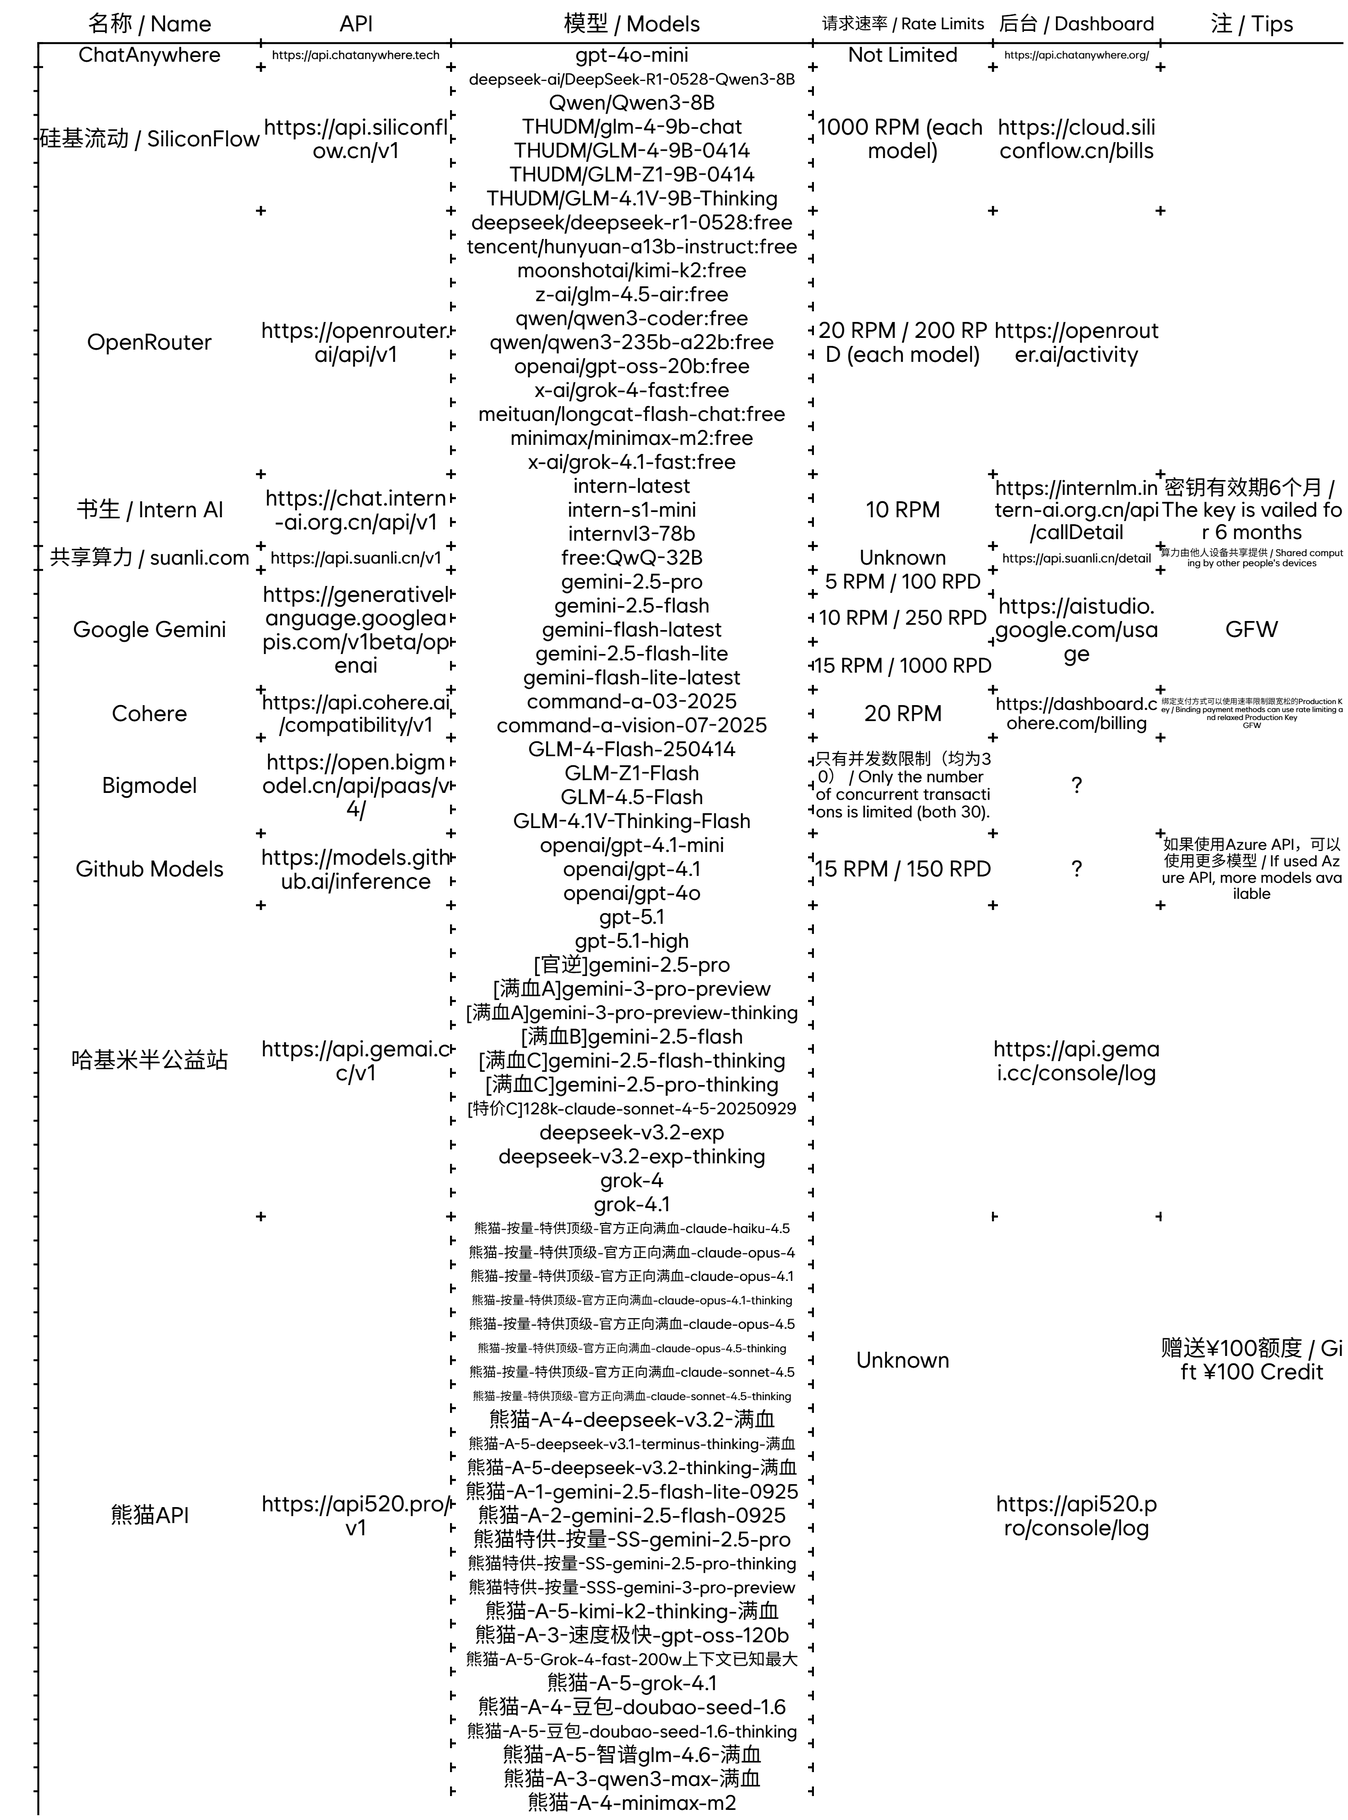
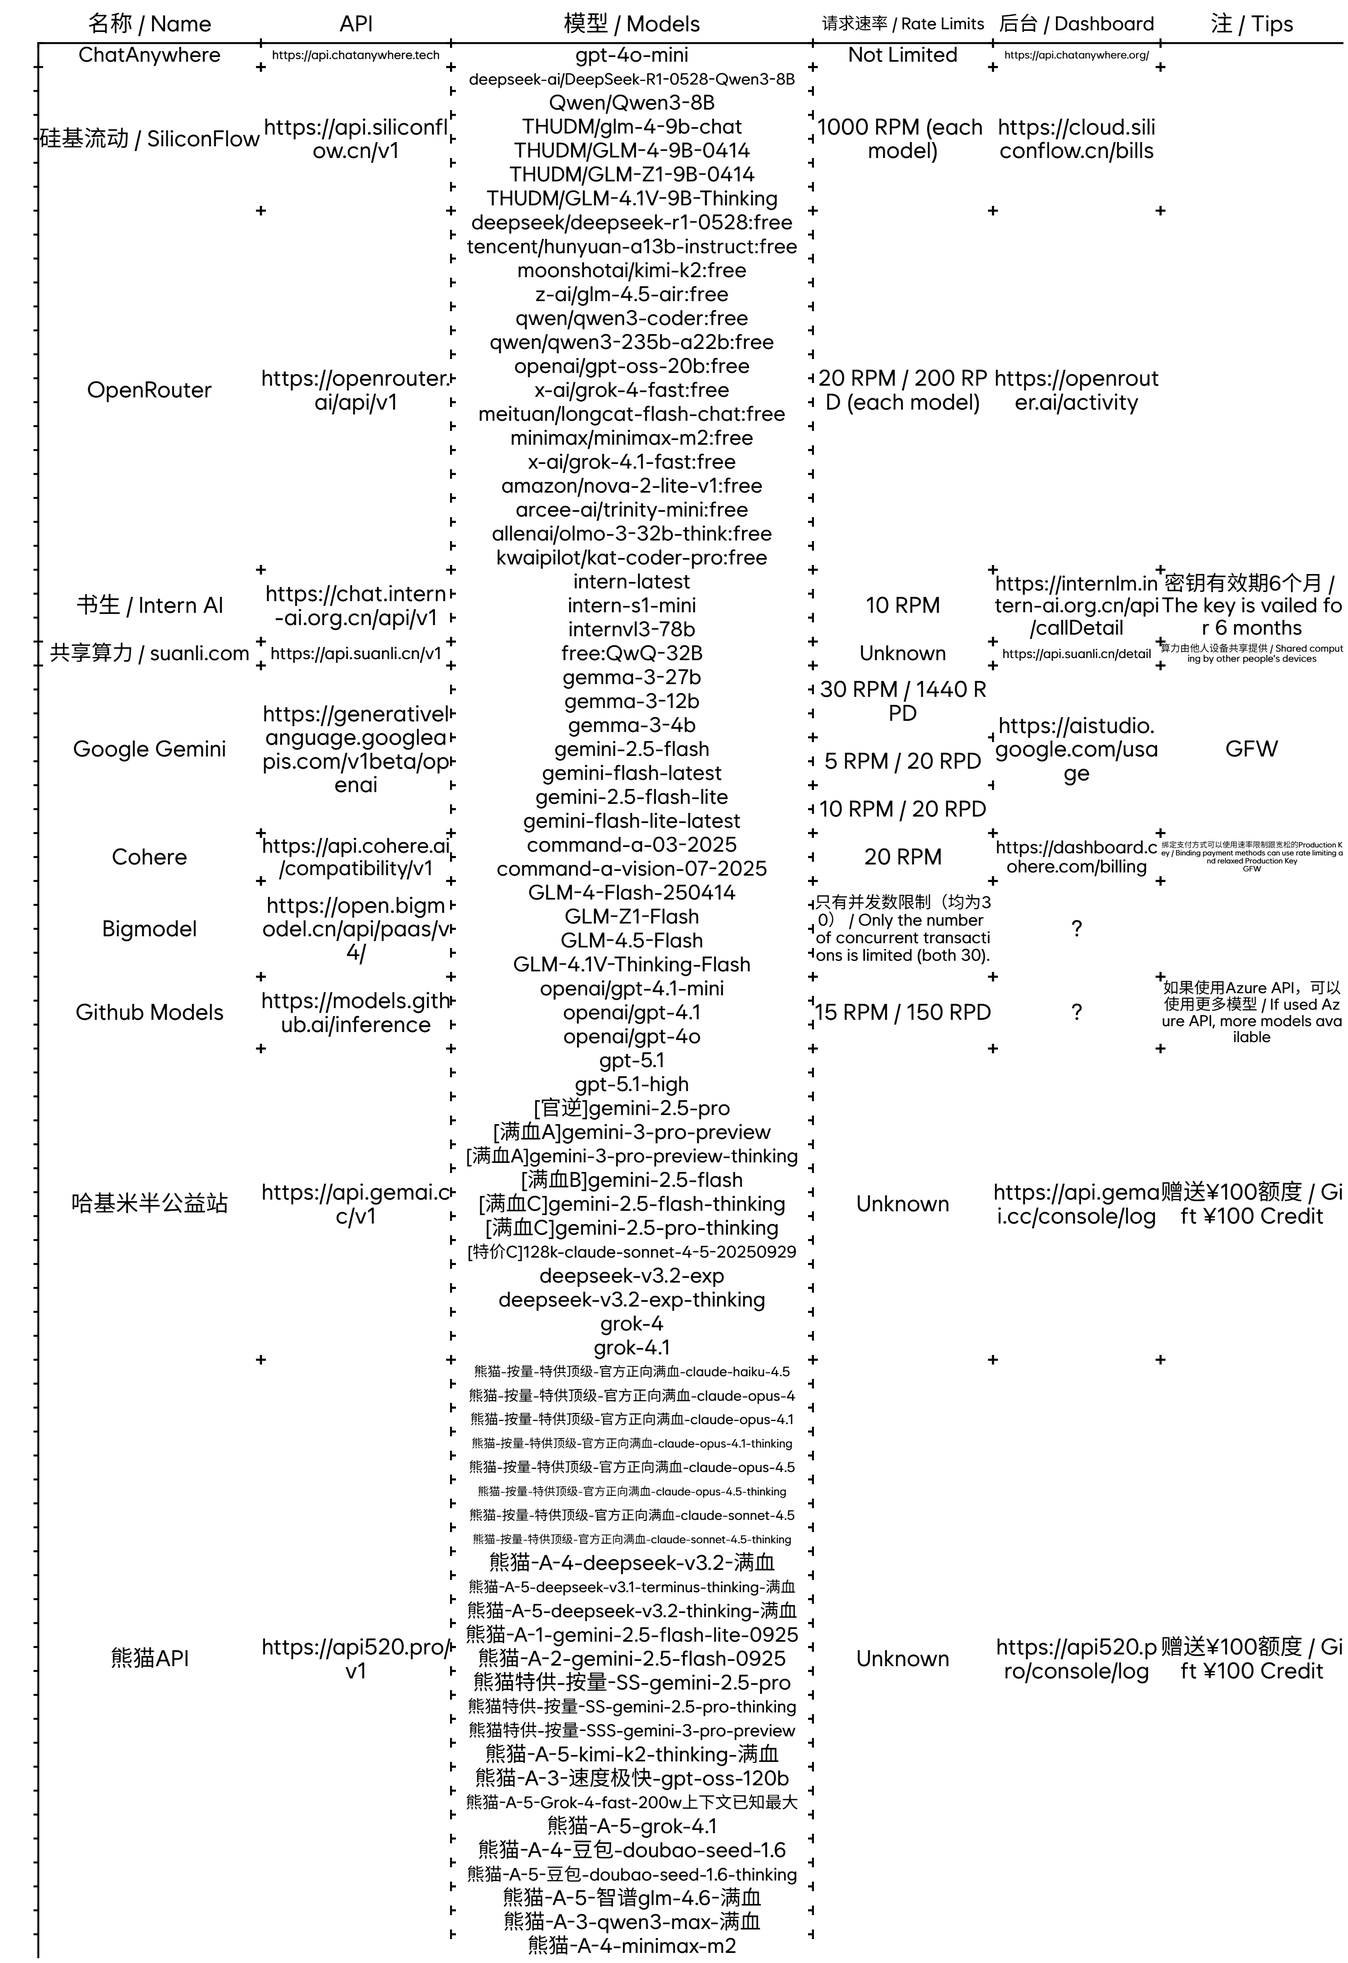
Add files via upload

diff --git a/README.md b/README.md
@@ -38,12 +38,12 @@ This table was generated by Gemini 2.5 Pro, Rendered by [Taple](https://ft.ftz.i
 |:------------------:|:--------------------------------------------------------- |:---------------------------------------------------------------------------------------------------------------------------------------------------------------------------------------------------------------------------------------------------------------------------------------------------------------------------------------------------------------------------------------------------------------------------------------------------------------------------------------------------------------------------------------------------------------------------------------------------------------------------------------------------------------------------------------------------------------------------------------------------------------------------------------------------------------------------------------------------------:|:--------------------------------------------------------------------------------:|:-------------------------------------------------- |:------------------------------------------------------------------------------------------------------------------- |
 | ChatAnywhere       | `https://api.chatanywhere.tech`                           | `gpt-4o-mini`                                                                                                                                                                                                                                                                                                                                                                                                                                                                                                                                                                                                                                                                                                                                                                                                                                             | Not Limited                                                                      | `https://api.chatanywhere.org/`                    |                                                                                                                     |
 | 硅基流动 / SiliconFlow | `https://api.siliconflow.cn/v1`                           | `deepseek-ai/DeepSeek-R1-0528-Qwen3-8B` `Qwen/Qwen3-8B`  `THUDM/glm-4-9b-chat``THUDM/GLM-4-9B-0414``THUDM/GLM-Z1-9B-0414` `THUDM/GLM-4.1V-9B-Thinking`                                                                                                                                                                                                                                                                                                                                                                                                                                                                                                                                                                                                                                                                                                    | 1000 RPM (each model)                                                            | `https://cloud.siliconflow.cn/bills`               |                                                                                                                     |
-| OpenRouter         | `https://openrouter.ai/api/v1`                            | `deepseek/deepseek-r1-0528:free` `tencent/hunyuan-a13b-instruct:free` `moonshotai/kimi-k2:free` `z-ai/glm-4.5-air:free` `qwen/qwen3-coder:free` `qwen/qwen3-235b-a22b:free` `openai/gpt-oss-20b:free` `x-ai/grok-4-fast:free` `meituan/longcat-flash-chat:free` `minimax/minimax-m2:free` `x-ai/grok-4.1-fast:free`                                                                                                                                                                                                                                                                                                                                                                                                                                                                                                                                       | 20 RPM / 200 RPD (each model)                                                    | `https://openrouter.ai/activity`                   |                                                                                                                     |
+| OpenRouter         | `https://openrouter.ai/api/v1`                            | `deepseek/deepseek-r1-0528:free` `tencent/hunyuan-a13b-instruct:free` `moonshotai/kimi-k2:free` `z-ai/glm-4.5-air:free` `qwen/qwen3-coder:free` `qwen/qwen3-235b-a22b:free` `openai/gpt-oss-20b:free` `x-ai/grok-4-fast:free` `meituan/longcat-flash-chat:free` `minimax/minimax-m2:free` `x-ai/grok-4.1-fast:free` `amazon/nova-2-lite-v1:free` `arcee-ai/trinity-mini:free` `allenai/olmo-3-32b-think:free` `kwaipilot/kat-coder-pro:free`                                                                                                                                                                                                                                                                                                                                                                                                              | 20 RPM / 200 RPD (each model)                                                    | `https://openrouter.ai/activity`                   |                                                                                                                     |
 | 书生 / Intern AI     | `https://chat.intern-ai.org.cn/api/v1`                    | `intern-latest` `intern-s1-mini` `internvl3-78b`                                                                                                                                                                                                                                                                                                                                                                                                                                                                                                                                                                                                                                                                                                                                                                                                          | 10 RPM                                                                           | `https://internlm.intern-ai.org.cn/api/callDetail` | 密钥有效期6个月 / The key is vailed for 6 months                                                                           |
 | 共享算力 / suanli.com  | `https://api.suanli.cn/v1`                                | `free:QwQ-32B`                                                                                                                                                                                                                                                                                                                                                                                                                                                                                                                                                                                                                                                                                                                                                                                                                                            | Unknown                                                                          | `https://api.suanli.cn/detail`                     | 算力由他人设备共享提供 / Shared computing by other people's devices                                                            |
-| Google Gemini      | `https://generativelanguage.googleapis.com/v1beta/openai` | `gemini-2.5-pro`                                                                                                                                                                                                                                                                                                                                                                                                                                                                                                                                                                                                                                                                                                                                                                                                                                          | 5 RPM / 100 RPD                                                                  | `https://aistudio.google.com/usage`                | GFW                                                                                                                 |
-| ↑                  | ↑                                                         | `gemini-2.5-flash` `gemini-flash-latest`                                                                                                                                                                                                                                                                                                                                                                                                                                                                                                                                                                                                                                                                                                                                                                                                                  | 10 RPM / 250 RPD                                                                 | ↑                                                  |                                                                                                                     |
-| ↑                  | ↑                                                         | `gemini-2.5-flash-lite` `gemini-flash-lite-latest`                                                                                                                                                                                                                                                                                                                                                                                                                                                                                                                                                                                                                                                                                                                                                                                                        | 15 RPM / 1000 RPD                                                                | ↑                                                  |                                                                                                                     |
+| Google Gemini      | `https://generativelanguage.googleapis.com/v1beta/openai` | `gemma-3-27b` `gemma-3-12b` `gemma-3-4b`                                                                                                                                                                                                                                                                                                                                                                                                                                                                                                                                                                                                                                                                                                                                                                                                                  | 30 RPM / 1440 RPD                                                                | `https://aistudio.google.com/usage`                | GFW                                                                                                                 |
+| ↑                  | ↑                                                         | `gemini-2.5-flash` `gemini-flash-latest`                                                                                                                                                                                                                                                                                                                                                                                                                                                                                                                                                                                                                                                                                                                                                                                                                  | 5 RPM / 20 RPD                                                                   | ↑                                                  |                                                                                                                     |
+| ↑                  | ↑                                                         | `gemini-2.5-flash-lite` `gemini-flash-lite-latest`                                                                                                                                                                                                                                                                                                                                                                                                                                                                                                                                                                                                                                                                                                                                                                                                        | 10 RPM / 20 RPD                                                                  | ↑                                                  |                                                                                                                     |
 | Cohere             | `https://api.cohere.ai/compatibility/v1`                  | `command-a-03-2025` `command-a-vision-07-2025`                                                                                                                                                                                                                                                                                                                                                                                                                                                                                                                                                                                                                                                                                                                                                                                                            | 20 RPM                                                                           | `https://dashboard.cohere.com/billing`             | 绑定支付方式可以使用速率限制跟宽松的Production Key / Binding payment methods can use rate limiting and relaxed Production Key<br/>GFW |
 | Bigmodel           | `https://open.bigmodel.cn/api/paas/v4/`                   | `GLM-4-Flash-250414` `GLM-Z1-Flash` `GLM-4.5-Flash` `GLM-4.1V-Thinking-Flash`                                                                                                                                                                                                                                                                                                                                                                                                                                                                                                                                                                                                                                                                                                                                                                             | 只有并发数限制（均为30） / Only the number of concurrent transactions is limited (both 30). | ?                                                  |                                                                                                                     |
 | Github Models      | `https://models.github.ai/inference`                      | `openai/gpt-4.1-mini` `openai/gpt-4.1` `openai/gpt-4o`                                                                                                                                                                                                                                                                                                                                                                                                                                                                                                                                                                                                                                                                                                                                                                                                    | 15 RPM / 150 RPD                                                                 | ?                                                  | 如果使用Azure API，可以使用更多模型 / If used Azure API, more models available                                                   |
